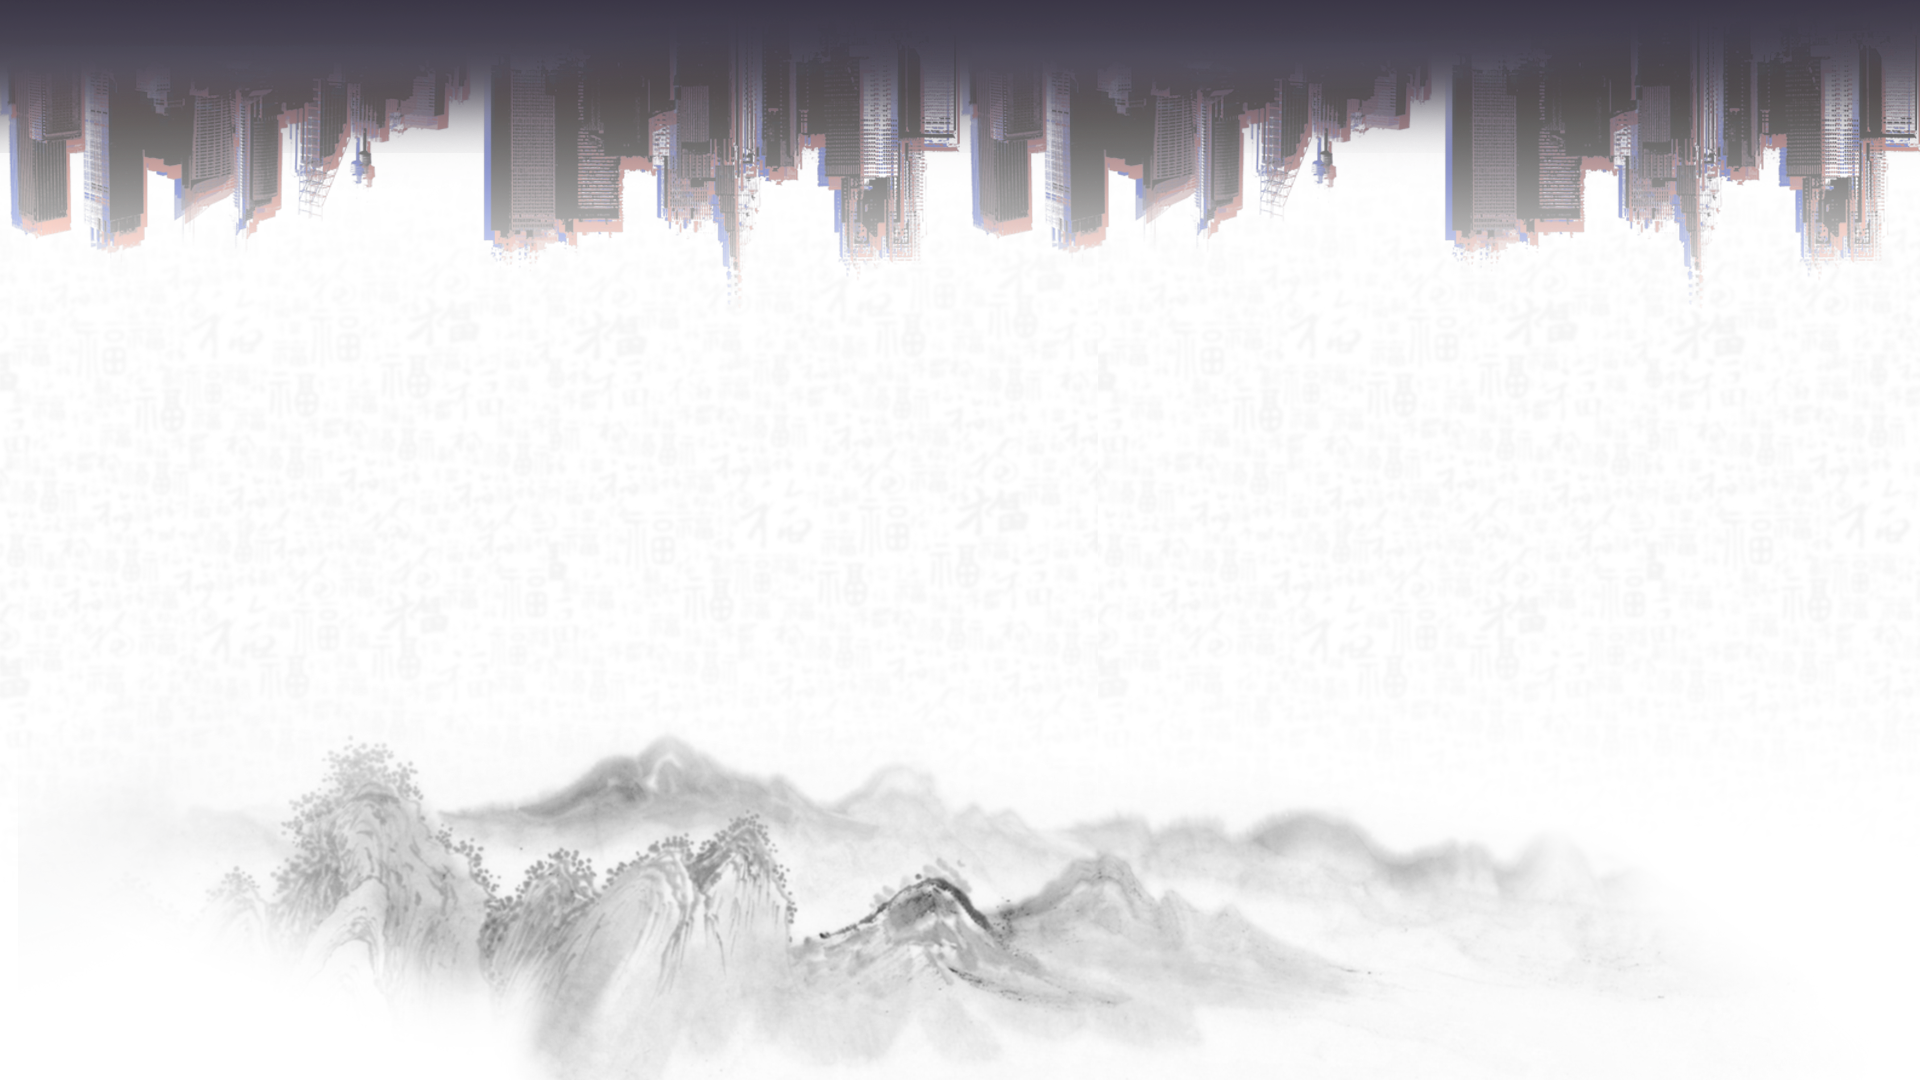
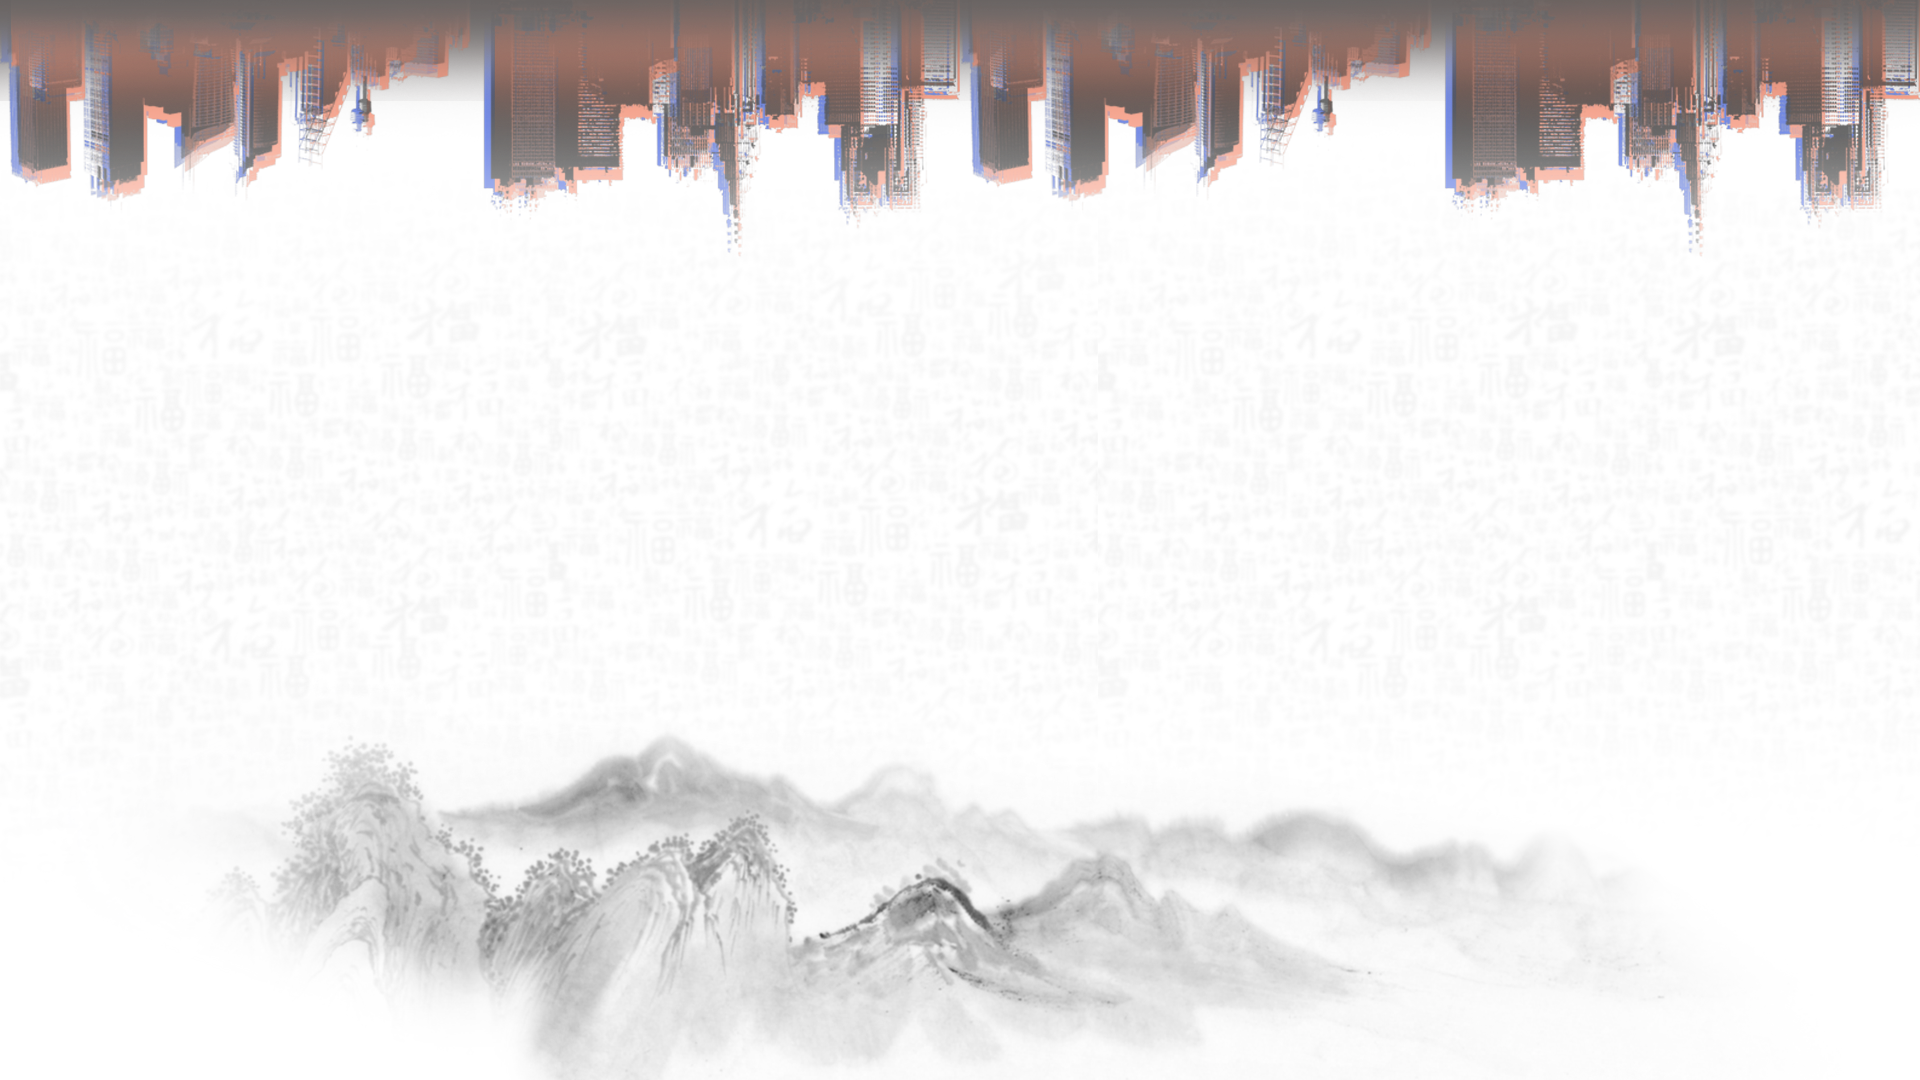
Update backgrounds and add horizontal repeat
- Update black.png: 862KB -> 853KB
- Update white.png: 1.1MB -> 1003KB (1.0MB)
- Add background-repeat: repeat-x (horizontal repeat only)
- Background now repeats horizontally but not vertically
- Applied to theme-ui single and multiple columns layouts

Changed region(s): [[0.0, 0.0, 1.0, 0.2444]]

diff --git a/app/javascript/styles/theme-ui/layout-multiple-columns.scss b/app/javascript/styles/theme-ui/layout-multiple-columns.scss
@@ -360,6 +360,7 @@ body.layout-multiple-columns {
   background-size: contain;
   background-attachment: fixed;
   background-position: center bottom;
+  background-repeat: repeat-x;
   color: var(--color-fg);
 }
 

diff --git a/app/javascript/styles/theme-ui/layout-single-column.scss b/app/javascript/styles/theme-ui/layout-single-column.scss
@@ -390,6 +390,7 @@ body.layout-single-column {
   background-size: contain;
   background-attachment: fixed;
   background-position: center bottom;
+  background-repeat: repeat-x;
   color: var(--color-fg);
 }
 
